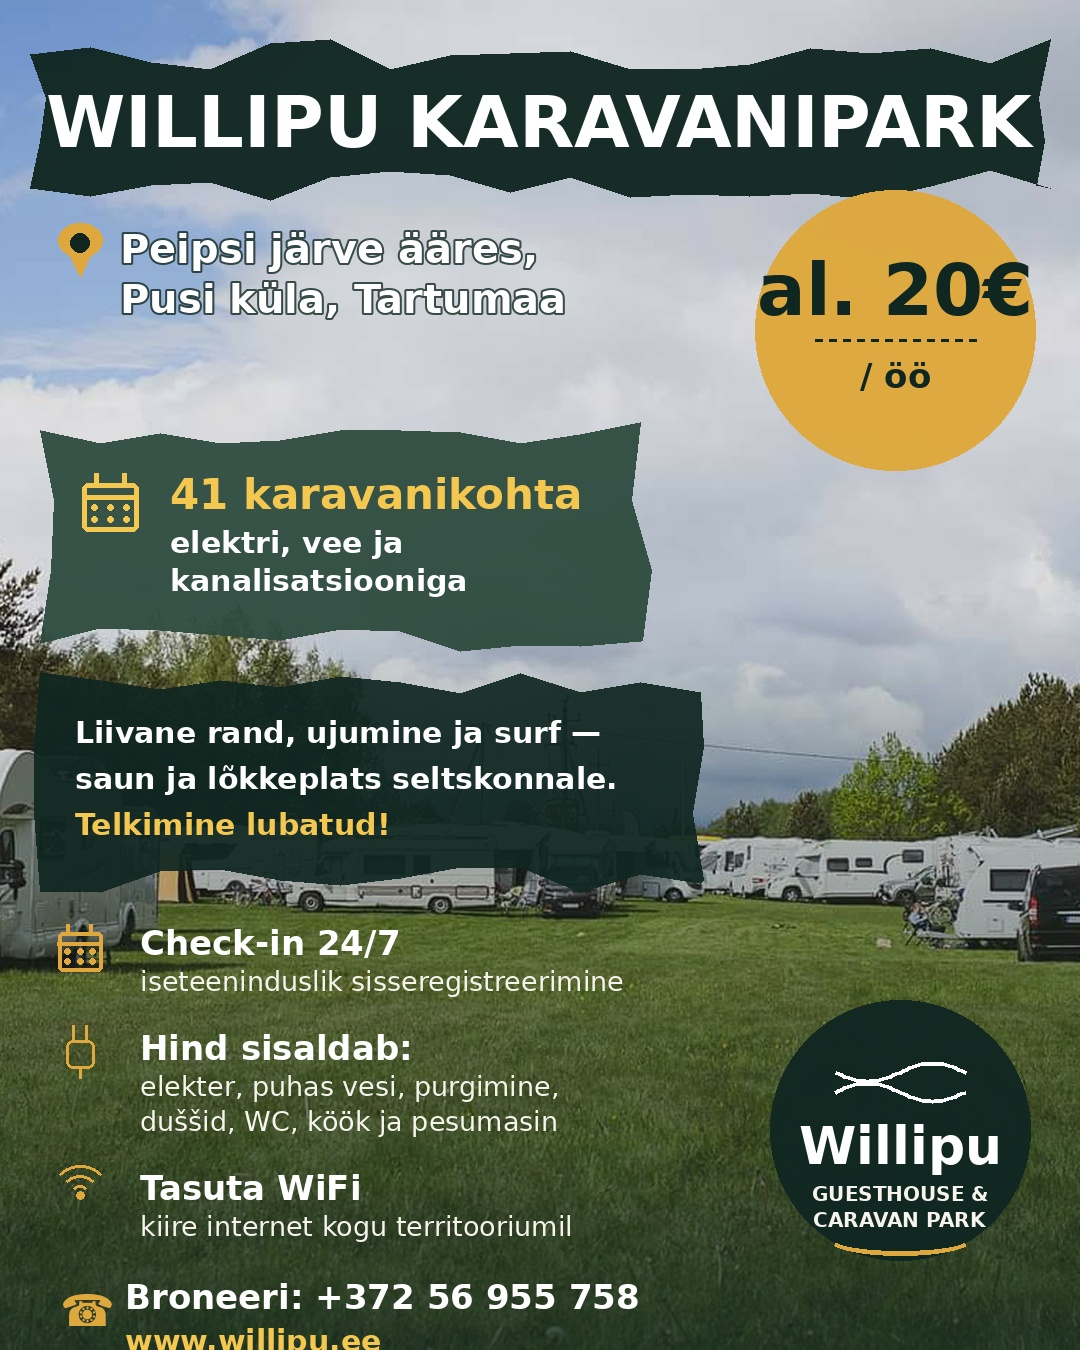
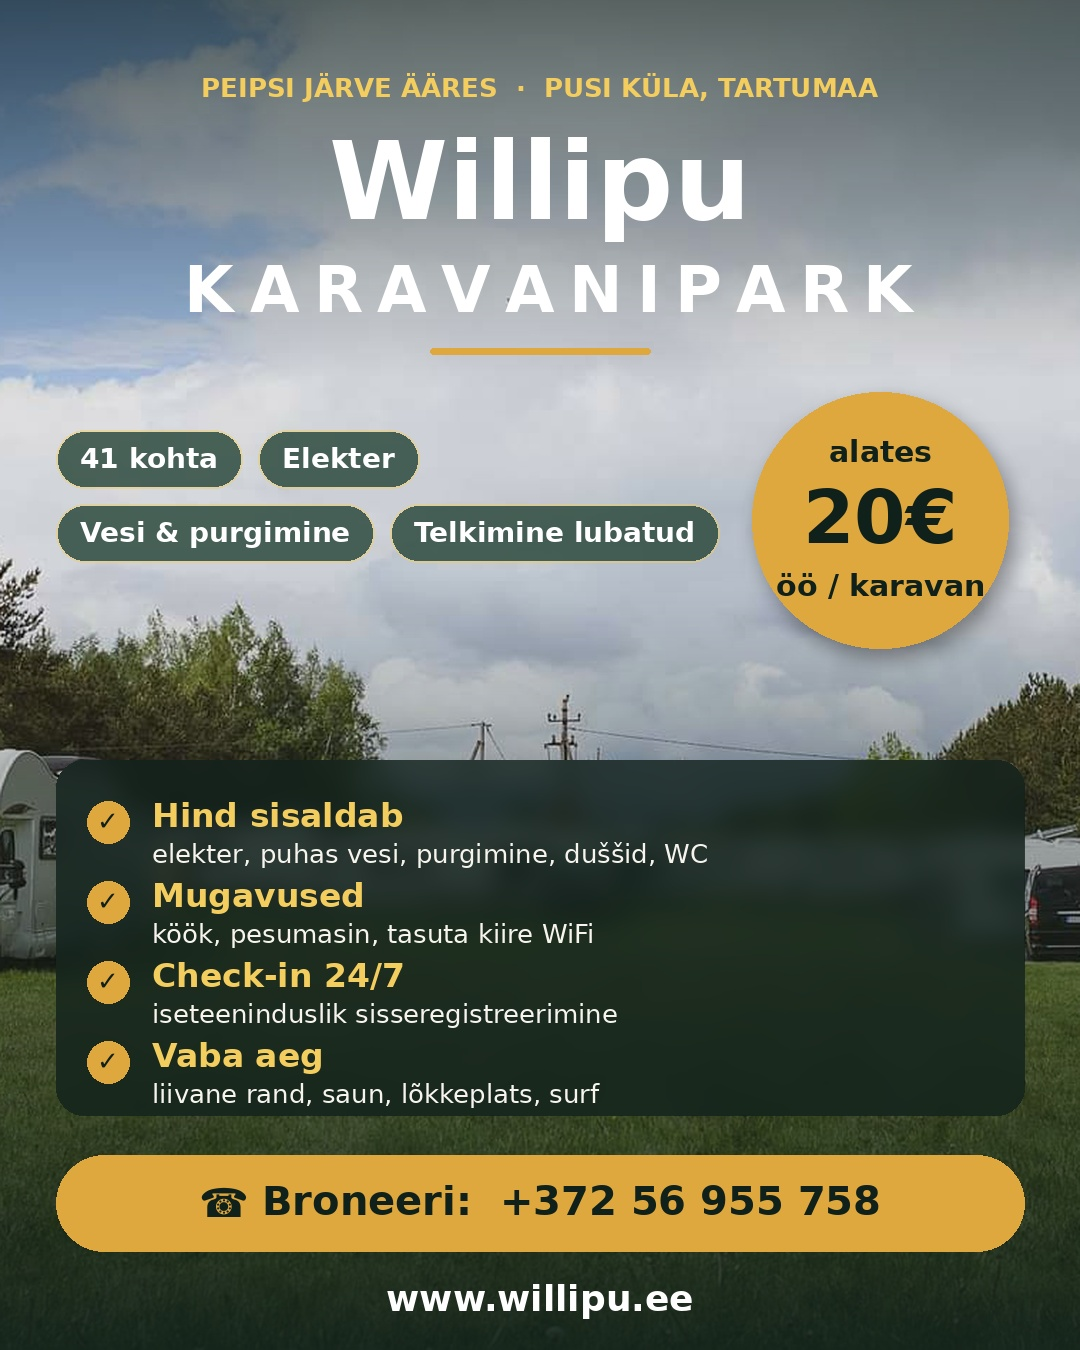
Modernize caravan park FB ad: clean rounded panels, pills, clear hierarchy
https://claude.ai/code/session_01YBnqtAUjjZPjfyEXVoMAyV

diff --git a/make_fb_ad_karavan.py b/make_fb_ad_karavan.py
@@ -1,24 +1,20 @@
 """
-Willipu Karavanipark — Facebook reklaam (kaasaegne, infoküllane)
-Stiil: pintslitõmbe-plokid, hinnaring, info-blokid
-Mõõdud: 1080 × 1350 px (FB feed portrait — rohkem ruumi infole)
+Willipu Karavanipark — Facebook reklaam (kaasaegne, puhas disain)
+Mõõdud: 1080 × 1350 px (FB feed portrait)
 """
-from PIL import Image, ImageDraw, ImageFont
-import random, os, math
+from PIL import Image, ImageDraw, ImageFilter, ImageFont
+import math, os
 
 W, H = 1080, 1350
 
-DARK_NAVY  = (16, 38, 33)      # tume sini-roheline plokk
-GREEN      = (45, 74, 62)      # --accent
-GREEN_SOFT = (58, 96, 78)
-GOLD       = (222, 168, 62)    # erksam kuld (nagu näites oranž ring)
-GOLD_DEEP  = (200, 155, 60)
-CREAM      = (247, 244, 238)
-WHITE      = (255, 255, 255)
-YELLOW     = (244, 200, 80)
+DARK   = (16, 32, 27)
+GREEN  = (45, 74, 62)
+GOLD   = (222, 168, 62)
+YELLOW = (244, 205, 95)
+CREAM  = (247, 244, 238)
+WHITE  = (255, 255, 255)
 
 SRC = os.path.join(os.path.dirname(__file__), 'public', 'kar4.jpg')
-
 BOLD   = "/usr/share/fonts/truetype/dejavu/DejaVuSans-Bold.ttf"
 NORMAL = "/usr/share/fonts/truetype/dejavu/DejaVuSans.ttf"
 
@@ -26,88 +22,21 @@ def F(size, bold=True):
     return ImageFont.truetype(BOLD if bold else NORMAL, size)
 
 
-def brush_block(draw, x0, y0, x1, y1, fill, seed=1, rough=14, layer=None):
-    """Pintslitõmbe-stiilis plokk — sakilised servad."""
-    rng = random.Random(seed)
-    pts = []
-    steps_h = max(4, (x1-x0)//60)
-    steps_v = max(3, (y1-y0)//60)
-    # ülemine serv
-    for i in range(steps_h+1):
-        t = i/steps_h
-        pts.append((x0 + t*(x1-x0), y0 + rng.randint(-rough, rough)))
-    # parem serv
-    for i in range(1, steps_v+1):
-        t = i/steps_v
-        pts.append((x1 + rng.randint(-rough, rough), y0 + t*(y1-y0)))
-    # alumine serv
-    for i in range(steps_h+1):
-        t = 1 - i/steps_h
-        pts.append((x0 + t*(x1-x0), y1 + rng.randint(-rough, rough)))
-    # vasak serv
-    for i in range(1, steps_v):
-        t = 1 - i/steps_v
-        pts.append((x0 + rng.randint(-rough, rough), y0 + t*(y1-y0)))
-    draw.polygon(pts, fill=fill)
-
-
-def draw_pin(draw, cx, cy, r, color):
-    """Asukoha-nõel."""
-    draw.ellipse([cx-r, cy-r*1.45, cx+r, cy+r*0.55-r*0.45], fill=color)
-    draw.polygon([(cx-r*0.62, cy-r*0.25), (cx+r*0.62, cy-r*0.25), (cx, cy+r*1.0)], fill=color)
-    hole = r*0.42
-    draw.ellipse([cx-hole, cy-r*1.45+r*0.45-hole+ r*0.45, cx+hole, cy-r*1.45+r*0.45+hole+ r*0.45], fill=DARK_NAVY)
-
-
-def draw_plug(draw, cx, cy, s, color):
-    """Elektripistik."""
-    lw = max(3, s//8)
-    # pistiku keha
-    draw.rounded_rectangle([cx-s*0.45, cy-s*0.15, cx+s*0.45, cy+s*0.75], radius=s//4, outline=color, width=lw)
-    # harud
-    draw.line([(cx-s*0.22, cy-s*0.15), (cx-s*0.22, cy-s*0.65)], fill=color, width=lw)
-    draw.line([(cx+s*0.22, cy-s*0.15), (cx+s*0.22, cy-s*0.65)], fill=color, width=lw)
-    # juhe
-    draw.line([(cx, cy+s*0.75), (cx, cy+s*1.1)], fill=color, width=lw)
-
-
-def draw_calendar(draw, cx, cy, s, color):
-    lw = max(3, s//8)
-    draw.rounded_rectangle([cx-s*0.7, cy-s*0.55, cx+s*0.7, cy+s*0.65], radius=s//6, outline=color, width=lw)
-    draw.line([(cx-s*0.7, cy-s*0.2), (cx+s*0.7, cy-s*0.2)], fill=color, width=lw)
-    draw.line([(cx-s*0.35, cy-s*0.55), (cx-s*0.35, cy-s*0.8)], fill=color, width=lw)
-    draw.line([(cx+s*0.35, cy-s*0.55), (cx+s*0.35, cy-s*0.8)], fill=color, width=lw)
-    # täpid
-    for i, dx in enumerate((-0.4, 0, 0.4)):
-        for dy in (0.05, 0.35):
-            draw.ellipse([cx+dx*s-3, cy+dy*s-3, cx+dx*s+3, cy+dy*s+3], fill=color)
-
-
-def draw_shower(draw, cx, cy, s, color):
-    lw = max(3, s//8)
-    # dušipea
-    draw.arc([cx-s*0.5, cy-s*0.7, cx+s*0.5, cy+s*0.3], 180, 360, fill=color, width=lw)
-    draw.line([(cx-s*0.5, cy-s*0.2), (cx+s*0.5, cy-s*0.2)], fill=color, width=lw)
-    # toru
-    draw.line([(cx, cy-s*0.7+lw), (cx, cy-s*1.0)], fill=color, width=lw)
-    draw.line([(cx, cy-s*1.0), (cx-s*0.5, cy-s*1.0)], fill=color, width=lw)
-    # piisad
-    for dx in (-0.3, 0, 0.3):
-        draw.line([(cx+dx*s, cy+0.0*s), (cx+dx*s-s*0.1, cy+s*0.35)], fill=color, width=lw)
-
-
-def draw_wifi(draw, cx, cy, s, color):
-    lw = max(3, s//8)
-    for r_mult in (1.0, 0.65, 0.32):
-        r = s * r_mult
-        draw.arc([cx-r, cy-r, cx+r, cy+r], 225, 315, fill=color, width=lw)
-    draw.ellipse([cx-4, cy-4, cx+4, cy+4], fill=color)
+def rounded_panel(base, box, radius, fill, blur_bg=False):
+    """Poolläbipaistev ümar paneel, soovi korral blur-iga tausta peal."""
+    x0, y0, x1, y1 = box
+    if blur_bg:
+        region = base.crop(box).filter(ImageFilter.GaussianBlur(12))
+        mask = Image.new('L', (x1-x0, y1-y0), 0)
+        ImageDraw.Draw(mask).rounded_rectangle([0, 0, x1-x0, y1-y0], radius=radius, fill=255)
+        base.paste(region, (x0, y0), mask)
+    layer = Image.new('RGBA', base.size, (0,0,0,0))
+    ImageDraw.Draw(layer).rounded_rectangle(box, radius=radius, fill=fill)
+    return Image.alpha_composite(base, layer)
 
 
 def make_ad(filename):
-    rng = random.Random(7)
-
-    # ── 1. Taustpilt ────────────────────────────────────────────────────────
+    # ── 1. Taustpilt ───────────────────────────────────────────────────────
     bg = Image.open(SRC).convert('RGB')
     ratio = W / H
     src = bg.width / bg.height
@@ -118,134 +47,146 @@ def make_ad(filename):
         nh = int(bg.width / ratio)
         bg = bg.crop((0, (bg.height-nh)//2, bg.width, (bg.height-nh)//2+nh))
     bg = bg.resize((W, H), Image.LANCZOS)
-
     base = bg.convert('RGBA')
 
-    # Kerge gradient all et alumine info loetav oleks
+    # Gradient: üleval kerge, all tugev — loetavuse jaoks
     grad = Image.new('RGBA', (W, H), (0,0,0,0))
     gd = ImageDraw.Draw(grad)
     for y in range(H):
         t = y / H
-        a = int(max(0, (t-0.45)) / 0.55 * 200)
-        gd.line([(0,y),(W,y)], fill=(*DARK_NAVY, a))
+        if t < 0.28:
+            a = int((0.28 - t) / 0.28 * 160)
+        elif t > 0.42:
+            a = int((t - 0.42) / 0.58 * 235)
+        else:
+            a = 0
+        gd.line([(0, y), (W, y)], fill=(*DARK, a))
     base = Image.alpha_composite(base, grad)
 
-    overlay = Image.new('RGBA', (W, H), (0,0,0,0))
-    draw = ImageDraw.Draw(overlay)
+    M = 56  # üldine veeris
 
-    # ── 2. Pealkiri — tume pintslitõmbe-plokk üleval ────────────────────────
-    brush_block(draw, 30, 55, W-30, 185, (*DARK_NAVY, 245), seed=3, rough=16)
+    # ── 2. Ülaosa: eyebrow + pealkiri ──────────────────────────────────────
+    d = ImageDraw.Draw(base)
 
-    f_title = F(88)
-    t = "WILLIPU KARAVANIPARK"
-    # mahuta kahele kui ei mahu — mõõda
-    tw = draw.textbbox((0,0), t, font=f_title)[2]
-    if tw > W - 120:
-        f_title = F(72)
-        tw = draw.textbbox((0,0), t, font=f_title)[2]
-    draw.text(((W-tw)//2, 120 - 40), t, font=f_title, fill=WHITE)
+    f_eye = F(26)
+    eye = "PEIPSI JÄRVE ÄÄRES  ·  PUSI KÜLA, TARTUMAA"
+    ew = d.textbbox((0,0), eye, font=f_eye)[2]
+    # kuldne aktsendijoon + eyebrow
+    d.text(((W-ew)//2, 72), eye, font=f_eye, fill=YELLOW)
 
-    # ── 3. Asukoht pealkirja all ────────────────────────────────────────────
-    f_loc = F(40)
-    draw_pin(draw, 80, 255, 22, GOLD)
-    draw.text((120, 225), "Peipsi järve ääres,", font=f_loc, fill=WHITE,
-              stroke_width=2, stroke_fill=(*DARK_NAVY, 200))
-    draw.text((120, 275), "Pusi küla, Tartumaa", font=f_loc, fill=WHITE,
-              stroke_width=2, stroke_fill=(*DARK_NAVY, 200))
+    f_title1 = F(108)
+    t1 = "Willipu"
+    t1w = d.textbbox((0,0), t1, font=f_title1)[2]
+    d.text(((W-t1w)//2, 118), t1, font=f_title1, fill=WHITE)
 
-    # ── 4. Hinnaring paremal ────────────────────────────────────────────────
-    pr_cx, pr_cy, pr_r = W-185, 330, 140
-    draw.ellipse([pr_cx-pr_r, pr_cy-pr_r, pr_cx+pr_r, pr_cy+pr_r], fill=(*GOLD, 250))
-    f_price = F(72)
-    f_per   = F(34)
-    pt = "al. 20€"
-    ptw = draw.textbbox((0,0), pt, font=f_price)[2]
-    draw.text((pr_cx-ptw//2, pr_cy-82), pt, font=f_price, fill=DARK_NAVY)
-    # punktiirjoon
-    for x in range(pr_cx-80, pr_cx+80, 14):
-        draw.line([(x, pr_cy+10), (x+7, pr_cy+10)], fill=DARK_NAVY, width=3)
-    pt2 = "/ öö"
-    pt2w = draw.textbbox((0,0), pt2, font=f_per)[2]
-    draw.text((pr_cx-pt2w//2, pr_cy+26), pt2, font=f_per, fill=DARK_NAVY)
+    f_title2 = F(64)
+    t2 = "KARAVANIPARK"
+    t2w = d.textbbox((0,0), t2, font=f_title2)[2]
+    # harvendatud tähevahe efekt — joonista täht haaval
+    spacing = 14
+    total = t2w + spacing * (len(t2)-1)
+    tx = (W - total)//2
+    for ch in t2:
+        d.text((tx, 252), ch, font=f_title2, fill=WHITE)
+        tx += d.textbbox((0,0), ch, font=f_title2)[2] + spacing
 
-    # ── 5. Roheline infoplokk: kohad + elekter ──────────────────────────────
-    brush_block(draw, 40, 430, 640, 640, (*GREEN, 240), seed=11, rough=14)
-    draw_calendar(draw, 110, 505, 40, YELLOW)
-    f_b1 = F(42)
-    f_b2 = F(30, bold=True)
-    draw.text((170, 470), "41 karavanikohta", font=f_b1, fill=YELLOW)
-    draw.text((170, 525), "elektri, vee ja", font=f_b2, fill=WHITE)
-    draw.text((170, 563), "kanalisatsiooniga", font=f_b2, fill=WHITE)
+    # kuldne joon pealkirja all
+    d.rounded_rectangle([(W-220)//2, 348, (W+220)//2, 354], radius=3, fill=GOLD)
 
-    # ── 6. Tume plokk: kirjeldus ────────────────────────────────────────────
-    brush_block(draw, 40, 680, 700, 880, (*DARK_NAVY, 235), seed=21, rough=13)
-    f_d = F(30)
-    lines = [
-        ("Liivane rand, ujumine ja surf —", WHITE),
-        ("saun ja lõkkeplats seltskonnale.", WHITE),
-        ("Telkimine lubatud!", YELLOW),
+    # ── 3. Hinnamärgis — puhas kuldne ring paremal ─────────────────────────
+    pr_cx, pr_cy, pr_r = W - 200, 520, 128
+    # kerge vari
+    shadow = Image.new('RGBA', (W, H), (0,0,0,0))
+    ImageDraw.Draw(shadow).ellipse(
+        [pr_cx-pr_r+6, pr_cy-pr_r+10, pr_cx+pr_r+6, pr_cy+pr_r+10], fill=(0,0,0,90))
+    shadow = shadow.filter(ImageFilter.GaussianBlur(10))
+    base = Image.alpha_composite(base, shadow)
+    d = ImageDraw.Draw(base)
+    d.ellipse([pr_cx-pr_r, pr_cy-pr_r, pr_cx+pr_r, pr_cy+pr_r], fill=GOLD)
+
+    f_pr_small = F(30)
+    f_pr_big   = F(74)
+    s1 = "alates"
+    s1w = d.textbbox((0,0), s1, font=f_pr_small)[2]
+    d.text((pr_cx-s1w//2, pr_cy-86), s1, font=f_pr_small, fill=DARK)
+    s2 = "20€"
+    s2w = d.textbbox((0,0), s2, font=f_pr_big)[2]
+    d.text((pr_cx-s2w//2, pr_cy-46), s2, font=f_pr_big, fill=DARK)
+    s3 = "öö / karavan"
+    s3w = d.textbbox((0,0), s3, font=f_pr_small)[2]
+    d.text((pr_cx-s3w//2, pr_cy+48), s3, font=f_pr_small, fill=DARK)
+
+    # ── 4. Märksõna-pillid vasakul ─────────────────────────────────────────
+    pills = ["41 kohta", "Elekter", "Vesi & purgimine", "Telkimine lubatud"]
+    f_pill = F(28)
+    py = 430
+    px = M
+    for ptxt in pills:
+        pw = d.textbbox((0,0), ptxt, font=f_pill)[2]
+        pill_w, pill_h = pw + 48, 58
+        if px + pill_w > W - 360:  # ära mine hinnaringi alla
+            px = M
+            py += pill_h + 16
+        layer = Image.new('RGBA', base.size, (0,0,0,0))
+        ld = ImageDraw.Draw(layer)
+        ld.rounded_rectangle([px, py, px+pill_w, py+pill_h], radius=pill_h//2,
+                             fill=(*GREEN, 215), outline=(*YELLOW, 120), width=2)
+        base = Image.alpha_composite(base, layer)
+        d = ImageDraw.Draw(base)
+        d.text((px+24, py+12), ptxt, font=f_pill, fill=WHITE)
+        px += pill_w + 16
+
+    # ── 5. Info-kaart (üks puhas paneel) ───────────────────────────────────
+    card_y0 = 760
+    card_y1 = 1115
+    base = rounded_panel(base, (M, card_y0, W-M, card_y1), 28, (*DARK, 200), blur_bg=True)
+    d = ImageDraw.Draw(base)
+
+    f_h  = F(33)
+    f_b  = F(26, bold=False)
+
+    rows = [
+        ("✓", "Hind sisaldab", "elekter, puhas vesi, purgimine, duššid, WC"),
+        ("✓", "Mugavused", "köök, pesumasin, tasuta kiire WiFi"),
+        ("✓", "Check-in 24/7", "iseteeninduslik sisseregistreerimine"),
+        ("✓", "Vaba aeg", "liivane rand, saun, lõkkeplats, surf"),
     ]
-    yy = 715
-    for txt, col in lines:
-        draw.text((75, yy), txt, font=f_d, fill=col)
-        yy += 46
+    ry = card_y0 + 36
+    for mark, head, body in rows:
+        # kuldne linnuke ringis
+        cr = 21
+        ccx, ccy = M + 52, ry + 26
+        d.ellipse([ccx-cr, ccy-cr, ccx+cr, ccy+cr], fill=GOLD)
+        mw = d.textbbox((0,0), mark, font=F(26))[2]
+        d.text((ccx-mw//2, ccy-17), mark, font=F(26), fill=DARK)
+        d.text((M + 96, ry), head, font=f_h, fill=YELLOW)
+        d.text((M + 96, ry + 42), body, font=f_b, fill=CREAM)
+        ry += 80
 
-    # ── 7. Alumine info: mugavused ──────────────────────────────────────────
-    f_lab  = F(34)
-    f_val  = F(27, bold=False)
+    # ── 6. CTA-riba all ────────────────────────────────────────────────────
+    cta_y0 = 1155
+    cta_h  = 96
+    layer = Image.new('RGBA', base.size, (0,0,0,0))
+    ld = ImageDraw.Draw(layer)
+    ld.rounded_rectangle([M, cta_y0, W-M, cta_y0+cta_h], radius=cta_h//2, fill=GOLD)
+    base = Image.alpha_composite(base, layer)
+    d = ImageDraw.Draw(base)
 
-    ix, iy = 80, 935
-    # Check-in 24/7
-    draw_calendar(draw, ix, iy+15, 32, GOLD)
-    draw.text((ix+60, iy-12), "Check-in 24/7", font=f_lab, fill=WHITE)
-    draw.text((ix+60, iy+30), "iseteeninduslik sisseregistreerimine", font=f_val, fill=CREAM)
+    f_cta  = F(40)
+    f_ph   = ImageFont.truetype(NORMAL, 40)
+    cta = "Broneeri:  +372 56 955 758"
+    cw = d.textbbox((0,0), cta, font=f_cta)[2]
+    icon_w = d.textbbox((0,0), "☎ ", font=f_ph)[2]
+    start = (W - cw - icon_w) // 2
+    d.text((start, cta_y0 + 24), "☎ ", font=f_ph, fill=DARK)
+    d.text((start + icon_w, cta_y0 + 22), cta, font=f_cta, fill=DARK)
 
-    iy2 = iy + 105
-    draw_plug(draw, ix, iy2+5, 30, GOLD)
-    draw.text((ix+60, iy2-12), "Hind sisaldab:", font=f_lab, fill=WHITE)
-    draw.text((ix+60, iy2+30), "elekter, puhas vesi, purgimine,", font=f_val, fill=CREAM)
-    draw.text((ix+60, iy2+65), "duššid, WC, köök ja pesumasin", font=f_val, fill=CREAM)
+    # ── 7. Veebileht kõige all ─────────────────────────────────────────────
+    f_web = F(36)
+    web = "www.willipu.ee"
+    ww = d.textbbox((0,0), web, font=f_web)[2]
+    d.text(((W-ww)//2, cta_y0 + cta_h + 26), web, font=f_web, fill=WHITE)
 
-    iy3 = iy2 + 140
-    draw_wifi(draw, ix, iy3+15, 30, GOLD)
-    draw.text((ix+60, iy3-12), "Tasuta WiFi", font=f_lab, fill=WHITE)
-    draw.text((ix+60, iy3+30), "kiire internet kogu territooriumil", font=f_val, fill=CREAM)
-
-    iy4 = iy3 + 105
-    # Telefon
-    f_ph_ico = ImageFont.truetype(NORMAL, 44)
-    draw.text((ix-20, iy4), "☎", font=f_ph_ico, fill=GOLD)
-    draw.text((ix+45, iy4-8), "Broneeri: +372 56 955 758", font=f_lab, fill=WHITE)
-    draw.text((ix+45, iy4+38), "www.willipu.ee", font=F(30), fill=YELLOW)
-
-    # ── 8. Logo-ring all paremal (nagu näites Sadama logo) ─────────────────
-    lg_cx, lg_cy, lg_r = W-180, H-220, 130
-    draw.ellipse([lg_cx-lg_r, lg_cy-lg_r, lg_cx+lg_r, lg_cy+lg_r], fill=(*DARK_NAVY, 245))
-    # lainejooned (nagu päise wave-ikoon)
-    def wave_y(x_norm, phase):
-        return math.sin(x_norm * math.pi * 2 + phase) * 9
-    for wy_off, ph in ((-58, 0), (-38, math.pi)):
-        pts = []
-        for i in range(41):
-            t = i/40
-            x = lg_cx - lg_r*0.5 + t*lg_r
-            pts.append((x, lg_cy + wy_off + wave_y(t, ph)))
-        draw.line(pts, fill=WHITE, width=4, joint='curve')
-    # "Willipu" kiri
-    f_logo = F(52)
-    lt = "Willipu"
-    ltw = draw.textbbox((0,0), lt, font=f_logo)[2]
-    draw.text((lg_cx-ltw//2, lg_cy-15), lt, font=f_logo, fill=WHITE)
-    f_logo2 = F(20)
-    lt2 = "GUESTHOUSE &"
-    lt3 = "CARAVAN PARK"
-    for i, s in enumerate((lt2, lt3)):
-        sw = draw.textbbox((0,0), s, font=f_logo2)[2]
-        draw.text((lg_cx-sw//2, lg_cy+52+i*26), s, font=f_logo2, fill=CREAM)
-    # kuldne kaar logo all
-    draw.arc([lg_cx-70, lg_cy+95, lg_cx+70, lg_cy+125], 20, 160, fill=GOLD, width=5)
-
-    base = Image.alpha_composite(base, overlay)
     result = base.convert('RGB')
     result.save(filename, 'JPEG', quality=95, optimize=True)
     print(f"✓ {filename}  ({W}×{H} px)")
